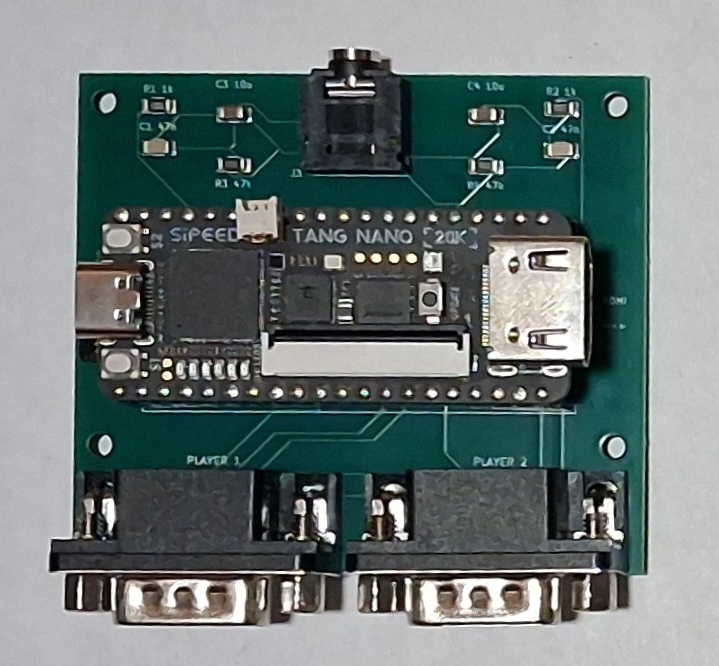
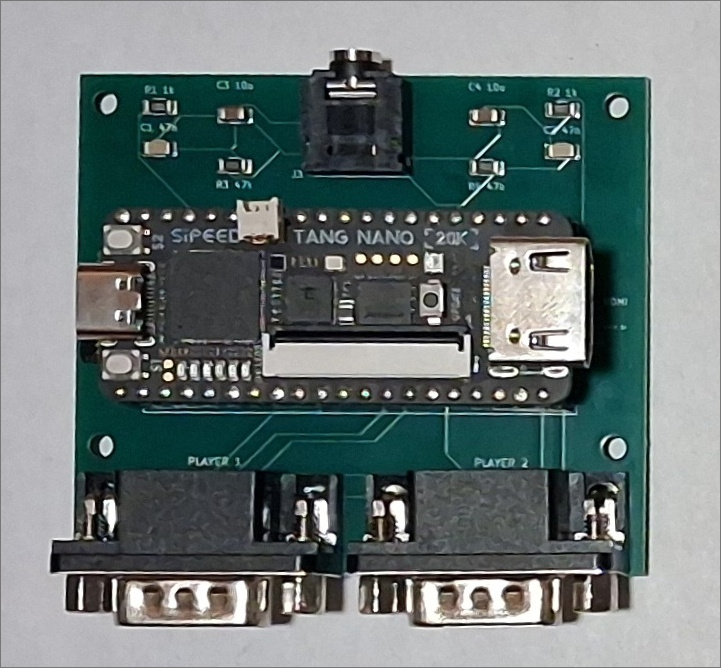
docs: frame assembled L3-7 photo and add caption

diff --git a/README.md b/README.md
@@ -29,8 +29,9 @@ the source yourself.
 
 <p align="center">
   <img src="docs/images/GenThang_L3-7_Assembled.jpg" width="640"
-       alt="Assembled Gen Thang">
+       alt="Assembled Gen Thang L3-7 board">
 </p>
+<p align="center"><sub>Assembled L3-7 board.</sub></p>
 
 <p align="center">
   <a href="hardware/modern-3btn-handheld/index.html">
